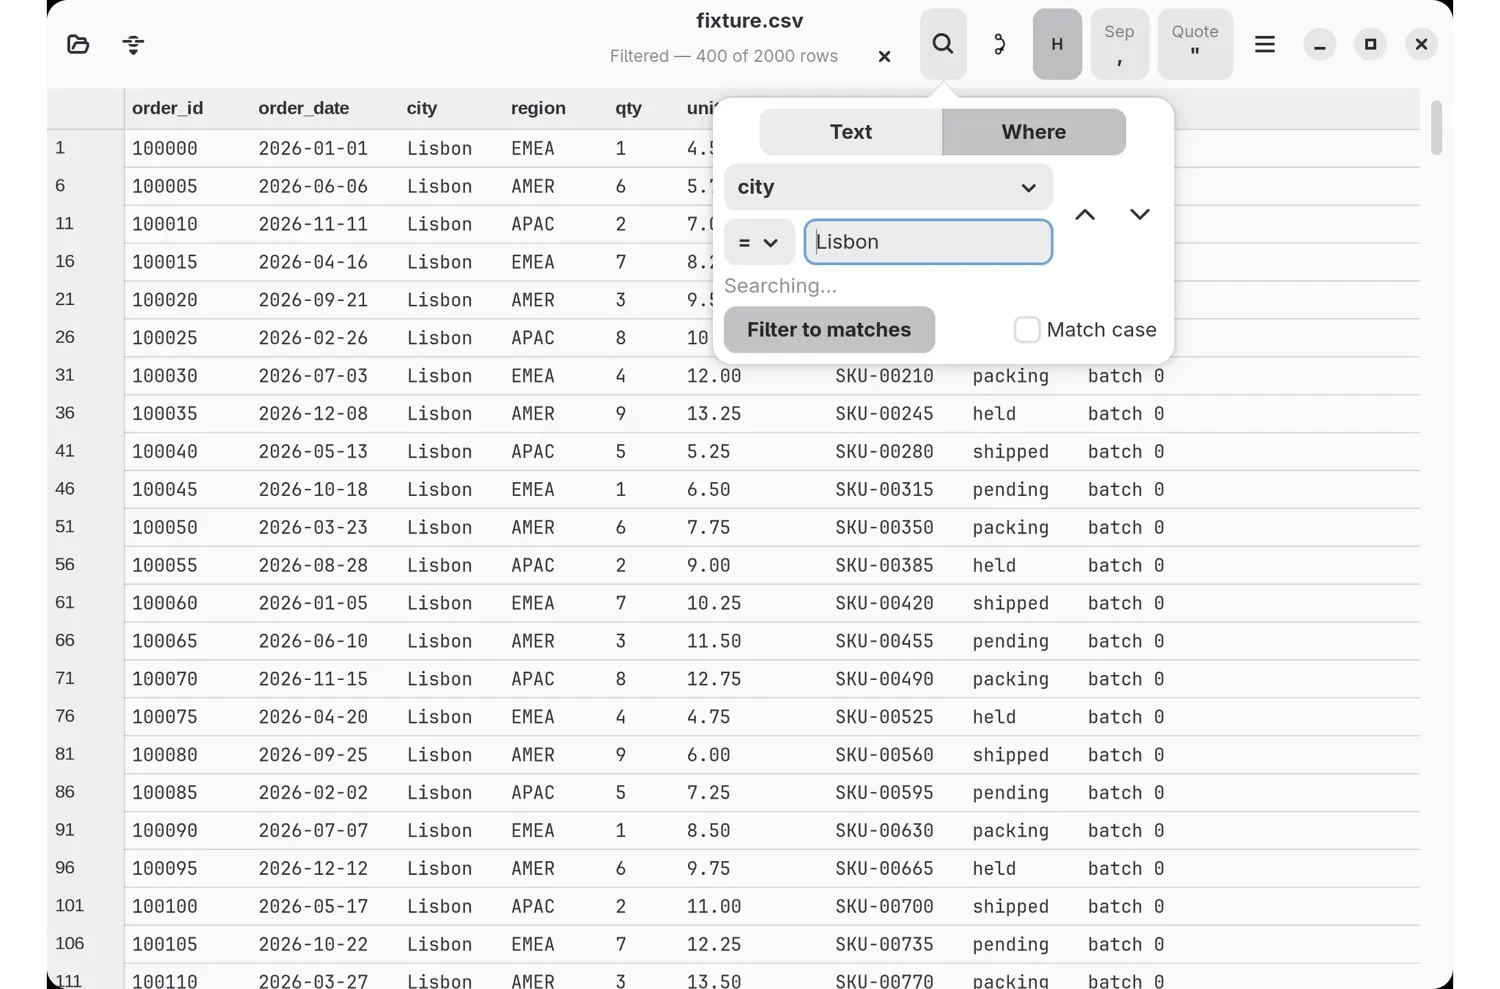
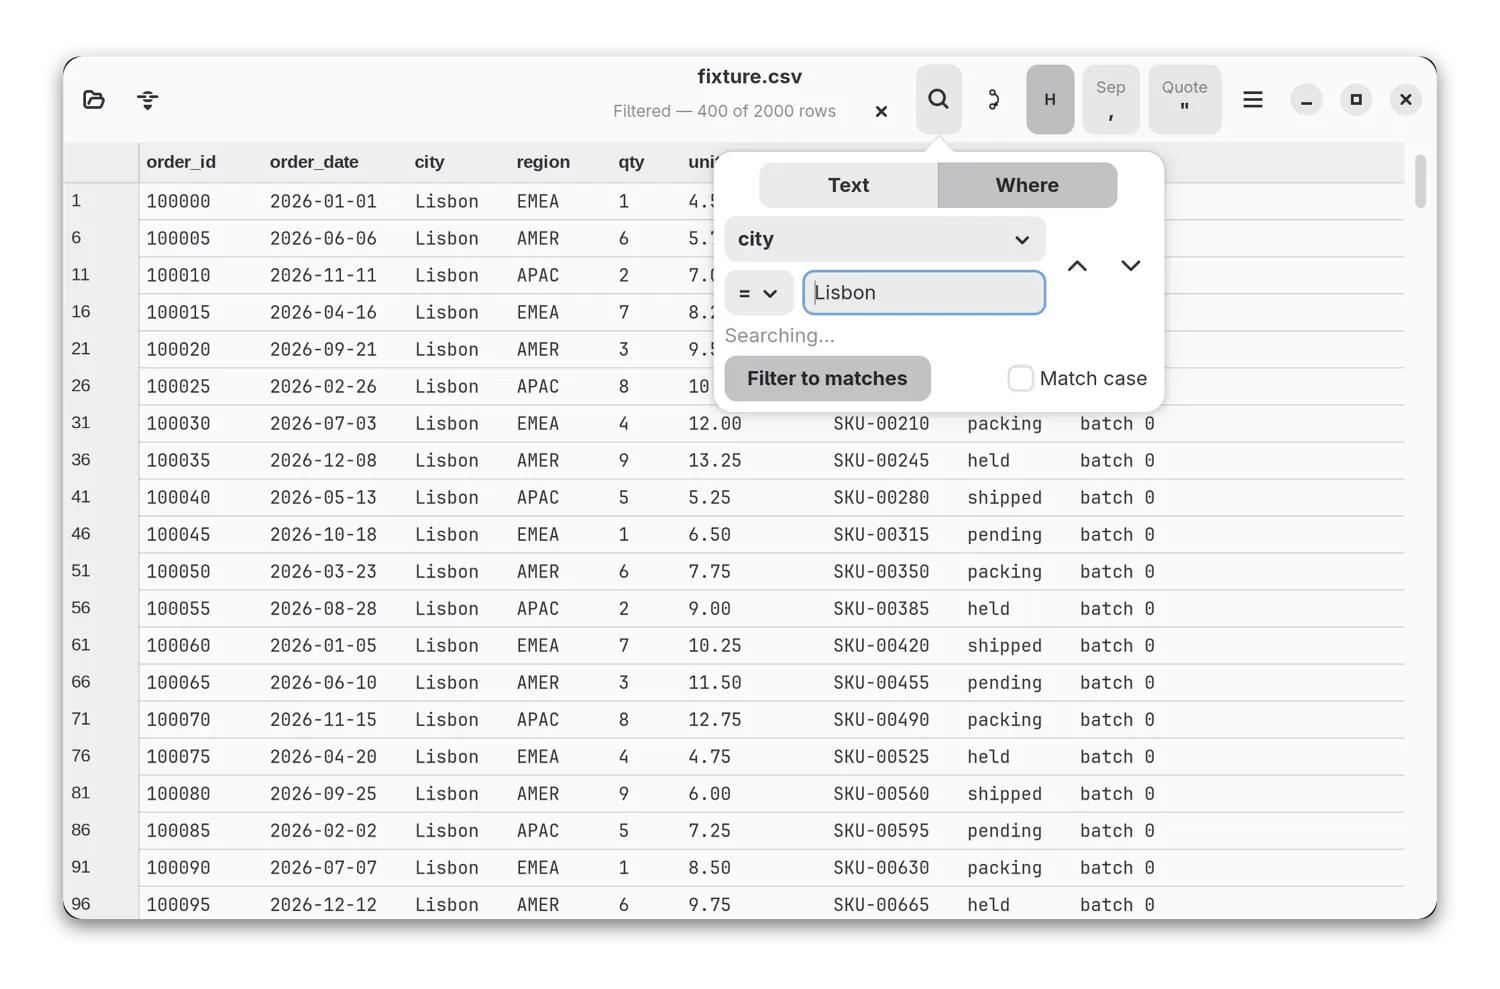
shots: Linux windows now match macOS — size, corners, and a shadow
The author reported three faults in the Linux set: black corners, no drop shadow,
and windows slightly bigger than the macOS ones. All three were real, all three
are fixed, and all three came from measuring rather than guessing — a small PNG
reader (scratchpad) gave the numbers below.

SIZE. The Linux window body was 1406x989 against macOS's 1374x863, and it filled
the frame's full height. Cause: `xh = WIN_H * SCALE` set the Xvfb screen height
EQUAL to the window height, so the window ran edge to edge with no margin. The
frame is now derived from the fraction the macOS window occupies of its own
frame (91.6% x 87.3%, measured off the shipped shots), and the window height
from the macOS window's ASPECT — matching frame size alone is not enough when
the two windows have different proportions. Result: 1372x862 against 1374x863.

The window size also had to become drivable: `WIN_H` in the tool was only
DESCRIPTIVE — nothing resized the app, which opened at its own 1024x720 default.
Added LESSSHEET_GTK_CAPTURE_SIZE, the twin of macOS's LESSSHEET_CAPTURE_SIZE.

BLACK CORNERS. `import -window` returns the window's pixels WITHOUT its alpha,
so GTK's rounded corners arrived as four opaque black wedges. The window really
is rounded on screen; the grab cannot express it. The shape is re-applied as an
alpha mask at libadwaita's 12pt radius.

SHADOW. 4,470 soft-alpha pixels against macOS's 170,973 — effectively none. On a
[…]

diff --git a/apps/gtk/src/main.c b/apps/gtk/src/main.c
@@ -6601,7 +6601,26 @@ ensure_window (App *app, GtkApplication *gtk_app)
    * GActions with accelerators (register_app_shortcuts, from the single accel
    * table), so no window-level key controller is needed here. */
   gtk_window_set_title (app->window, "less-sheet");
-  gtk_window_set_default_size (app->window, 1024, 720);
+  {
+    /* LESSSHEET_GTK_CAPTURE_SIZE=<w>x<h> pins the window for a screenshot run,
+     * the twin of macOS's LESSSHEET_CAPTURE_SIZE. Without it the Linux shots
+     * could not be made to sit at the same proportion of the frame as the
+     * macOS ones: the frame is identical (1500x989) but this window's 1024x720
+     * has a different ASPECT from the macOS window, so it read as noticeably
+     * bigger on the page even at the same frame size. Inert in normal use. */
+    int dw = 1024, dh = 720;
+    const char *size = g_getenv ("LESSSHEET_GTK_CAPTURE_SIZE");
+    if (size != NULL)
+      {
+        int w = 0, h = 0;
+        if (sscanf (size, "%dx%d", &w, &h) == 2 && w >= 480 && h >= 360)
+          {
+            dw = w;
+            dh = h;
+          }
+      }
+    gtk_window_set_default_size (app->window, dw, dh);
+  }
 
   /* App logo: register the embedded GResource icon (compiled into the binary
    * as a hicolor-laid-out resource) so the running app shows it without an
